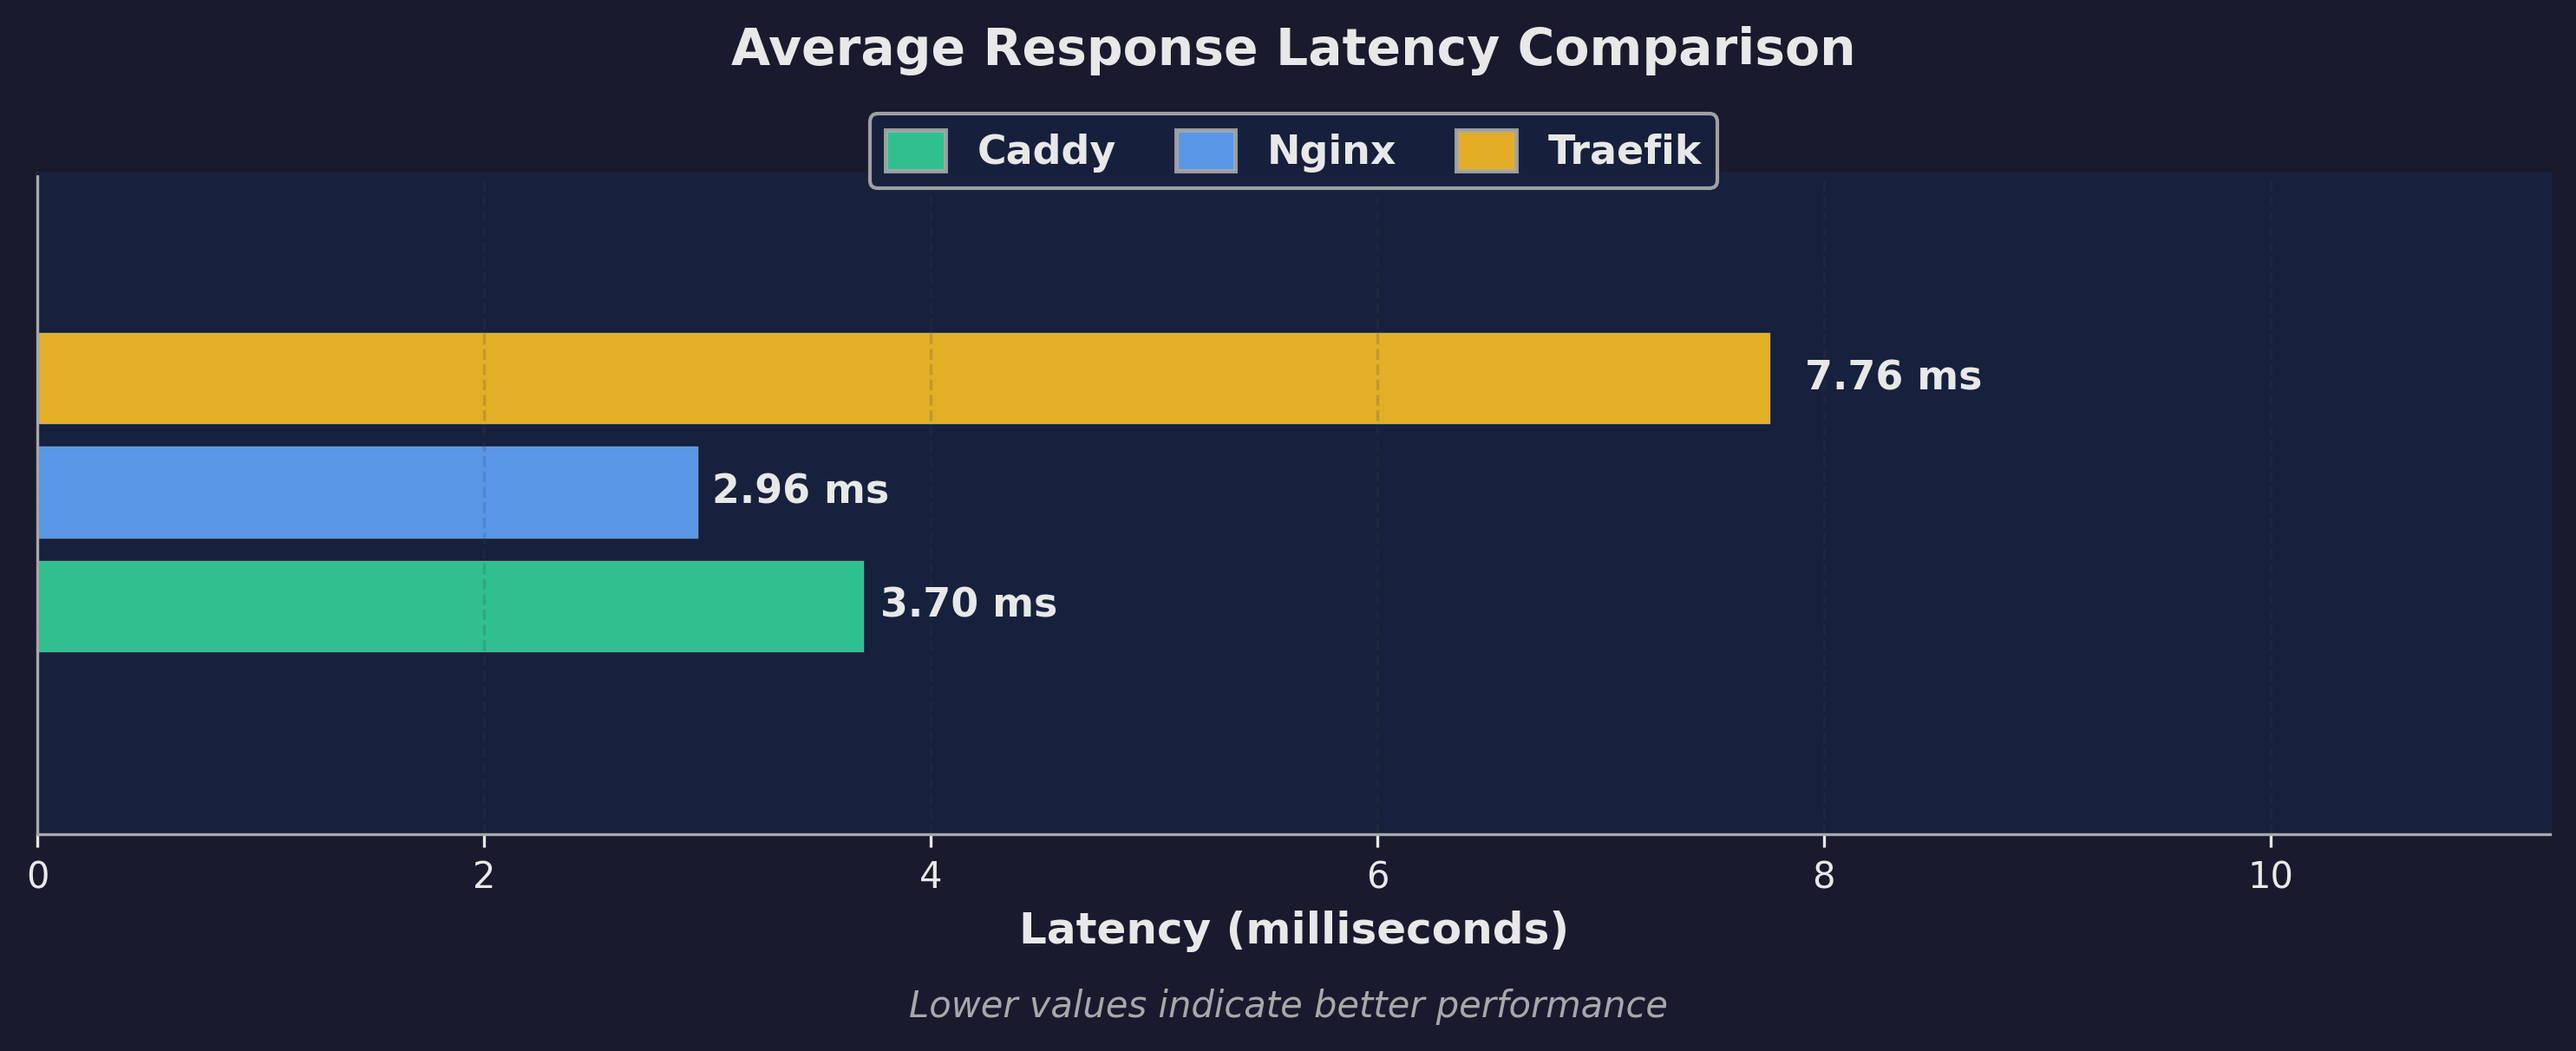
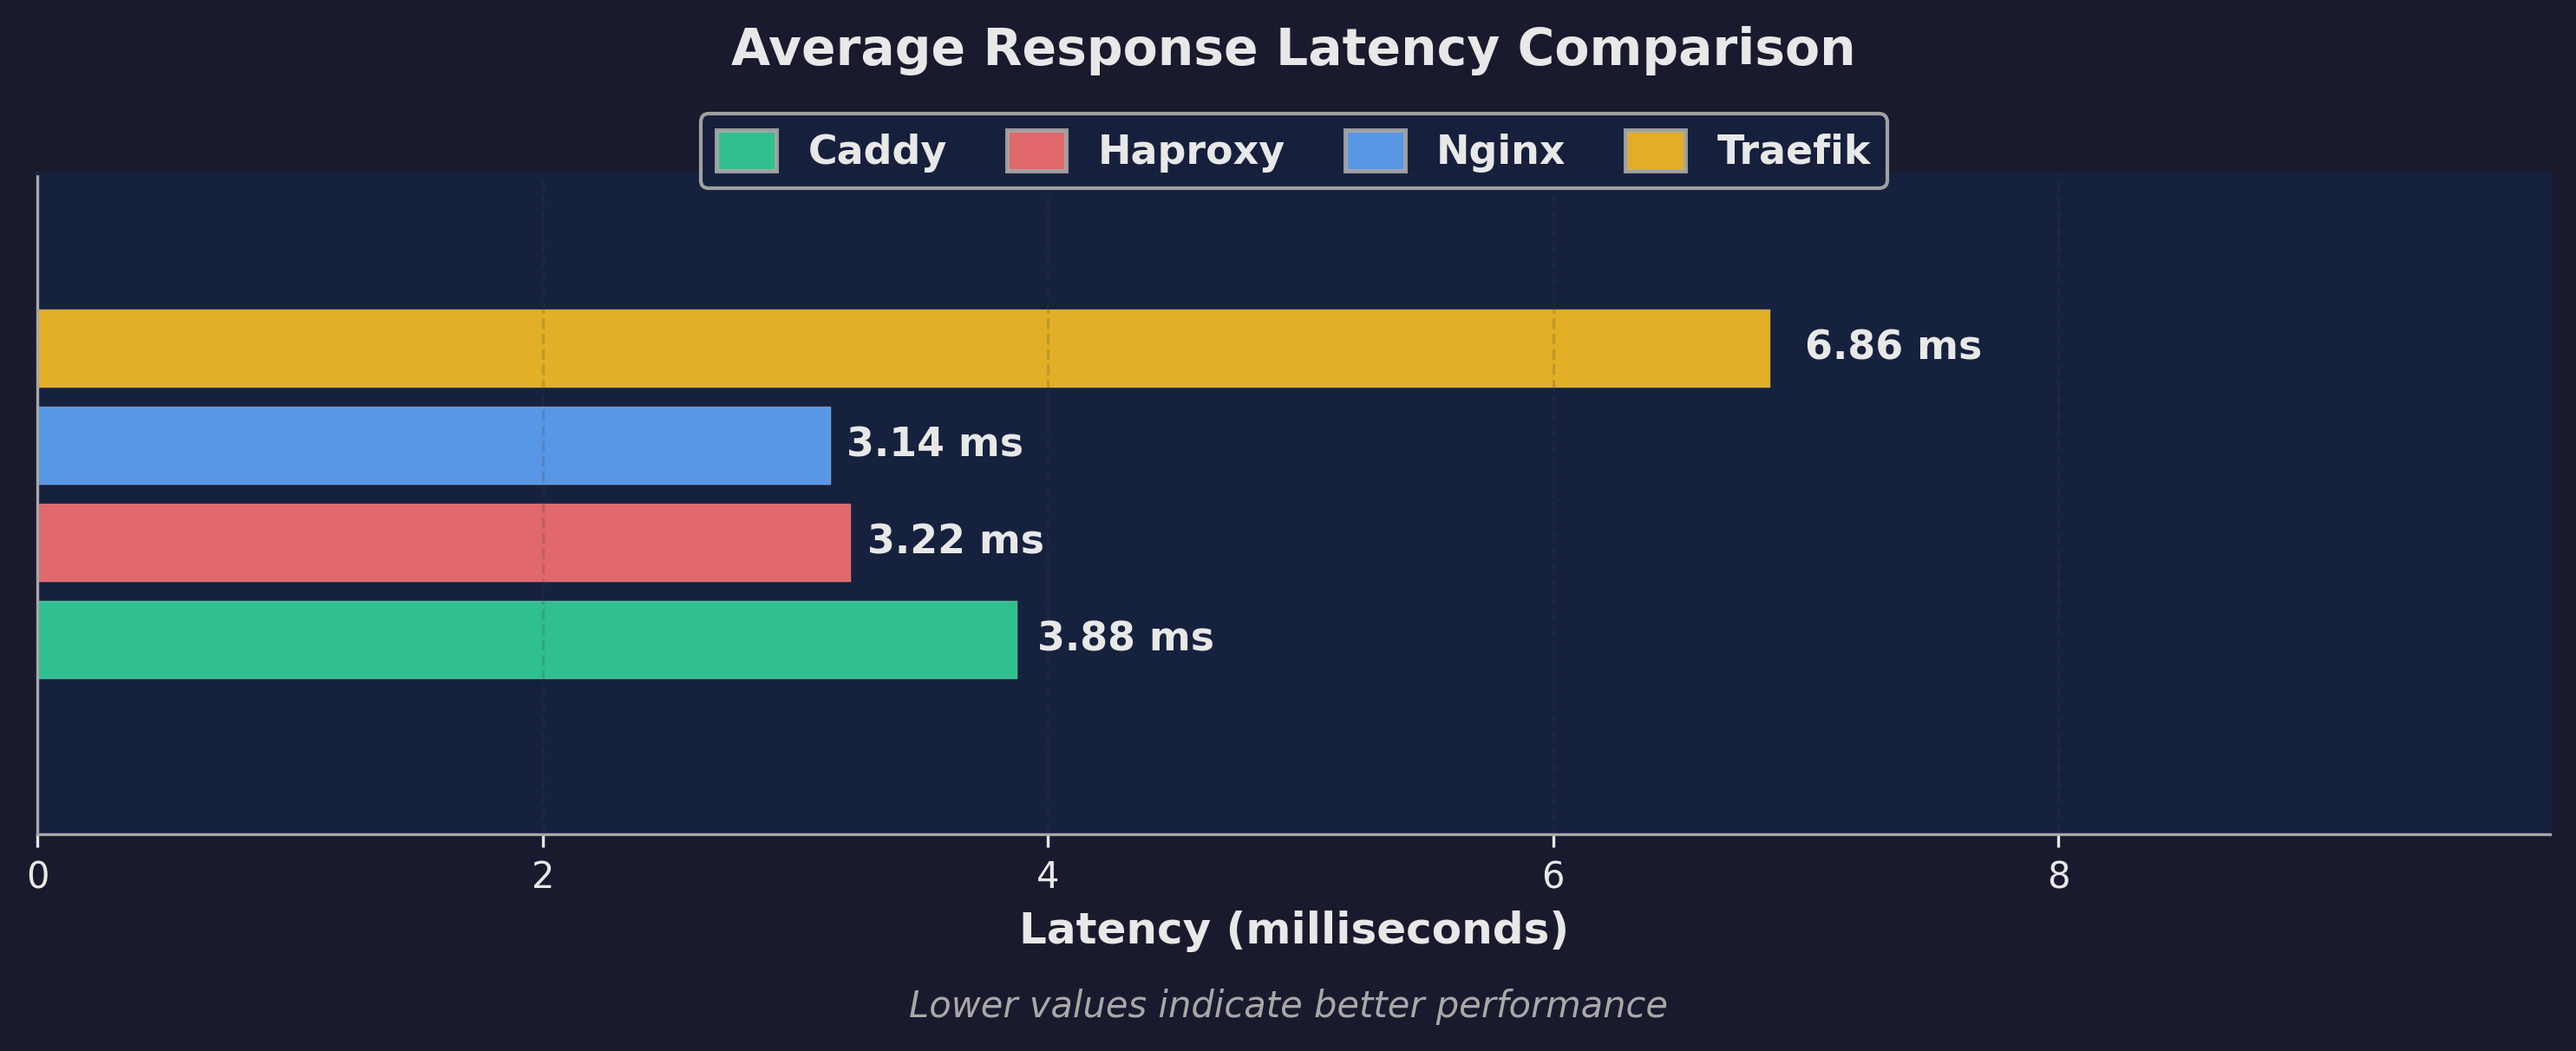
feat: haproxy comparison

diff --git a/analyze_results.py b/analyze_results.py
@@ -30,6 +30,7 @@ COLORS = {
     'nginx': '#60a5fa',      # Bright blue
     'caddy': '#34d399',      # Bright green/teal
     'traefik': '#fbbf24',    # Bright amber/yellow
+    'haproxy': '#f87171',    # Bright red
 }
 
 # Line styles for charts
@@ -37,6 +38,7 @@ LINE_STYLES = {
     'nginx': '-',
     'caddy': '--',
     'traefik': '-.',
+    'haproxy': ':',
 }
 
 def setup_dark_theme(fig, ax):
@@ -462,11 +464,11 @@ def create_latency_percentiles_chart(results, output_dir='charts'):
 
 def print_summary(results):
     """Print a detailed summary table of results."""
-    print("\n" + "="*90)
+    print("\n" + "="*110)
     print("BENCHMARK RESULTS SUMMARY - Fibonacci Endpoint (n=30)")
-    print("="*90)
-    print(f"{'Metric':<35} {'Nginx':<18} {'Caddy':<18} {'Traefik':<18}")
-    print("-"*90)
+    print("="*110)
+    print(f"{'Metric':<35} {'Nginx':<18} {'Caddy':<18} {'Traefik':<18} {'HAProxy':<18}")
+    print("-"*110)
     
     # Sort by name to ensure consistent order
     results_dict = {r.name: r for r in results}
@@ -485,20 +487,21 @@ def print_summary(results):
         nginx_val = fmt.format(getattr(results_dict.get('nginx', BenchmarkResult('nginx')), attr))
         caddy_val = fmt.format(getattr(results_dict.get('caddy', BenchmarkResult('caddy')), attr))
         traefik_val = fmt.format(getattr(results_dict.get('traefik', BenchmarkResult('traefik')), attr))
-        print(f"{metric_name:<35} {nginx_val:<18} {caddy_val:<18} {traefik_val:<18}")
+        haproxy_val = fmt.format(getattr(results_dict.get('haproxy', BenchmarkResult('haproxy')), attr))
+        print(f"{metric_name:<35} {nginx_val:<18} {caddy_val:<18} {traefik_val:<18} {haproxy_val:<18}")
     
     # Add resource metrics if available
     if any(r.cpu_timeline for r in results):
         print()
         print("Resource Usage (Average)")
-        print("-"*90)
+        print("-"*110)
         for r in results:
             if r.cpu_timeline and r.memory_timeline:
                 avg_cpu = np.mean(r.cpu_timeline)
                 avg_mem = np.mean(r.memory_timeline)
                 print(f"{r.name.capitalize():<35} CPU: {avg_cpu:.2f}%{'':<10} Memory: {avg_mem:.2f} MB")
     
-    print("="*90)
+    print("="*110)
     
     # Determine winner
     max_rps = max(results, key=lambda r: r.requests_per_sec)
@@ -583,9 +586,9 @@ def main():
     else:
         print("⚠ Warning: No resource usage metrics found. Skipping resource charts.")
     
-    print("\n" + "="*90)
+    print("\n" + "="*110)
     print("Analysis complete! Check the 'charts' directory for visualizations.")
-    print("="*90)
+    print("="*110)
     print("\nGenerated Charts:")
     print("  1. throughput.png              - Requests per second comparison (horizontal bars)")
     print("  2. latency.png                 - Average latency comparison (horizontal bars)")

diff --git a/README.md b/README.md
@@ -1,6 +1,6 @@
-# 🚀 Reverse Proxy Benchmark: Nginx vs Caddy vs Traefik
+# 🚀 Reverse Proxy Benchmark: Nginx vs Caddy vs Traefik vs HAProxy
 
-Performance comparison of three popular reverse proxies using Docker, wrk load testing, and a Rust backend with CPU-intensive endpoints.
+Performance comparison of four popular reverse proxies using Docker, wrk load testing, and a Rust backend with CPU-intensive endpoints.
 
 
 ## 📊 Benchmark Results
@@ -34,7 +34,7 @@ pip install matplotlib numpy
 ```
 
 ```bash
-# 1. Start services (Nginx:8080, Caddy:8081, Traefik:8082)
+# 1. Start services (Nginx:8080, Caddy:8081, Traefik:8082, HAProxy:8083)
 docker compose up -d
 
 # 2. Run benchmark
@@ -62,6 +62,7 @@ python3 analyze_results.py
 - **Nginx**: Highest throughput, lowest latency (C-based, highly optimized)
 - **Caddy**: Good balance, automatic HTTPS (Go-based)
 - **Traefik**: Feature-rich dynamic routing (Go-based)
+- **HAProxy**: Enterprise-grade load balancing (C-based, high performance)
 
 ## 🧹 Cleanup
 
